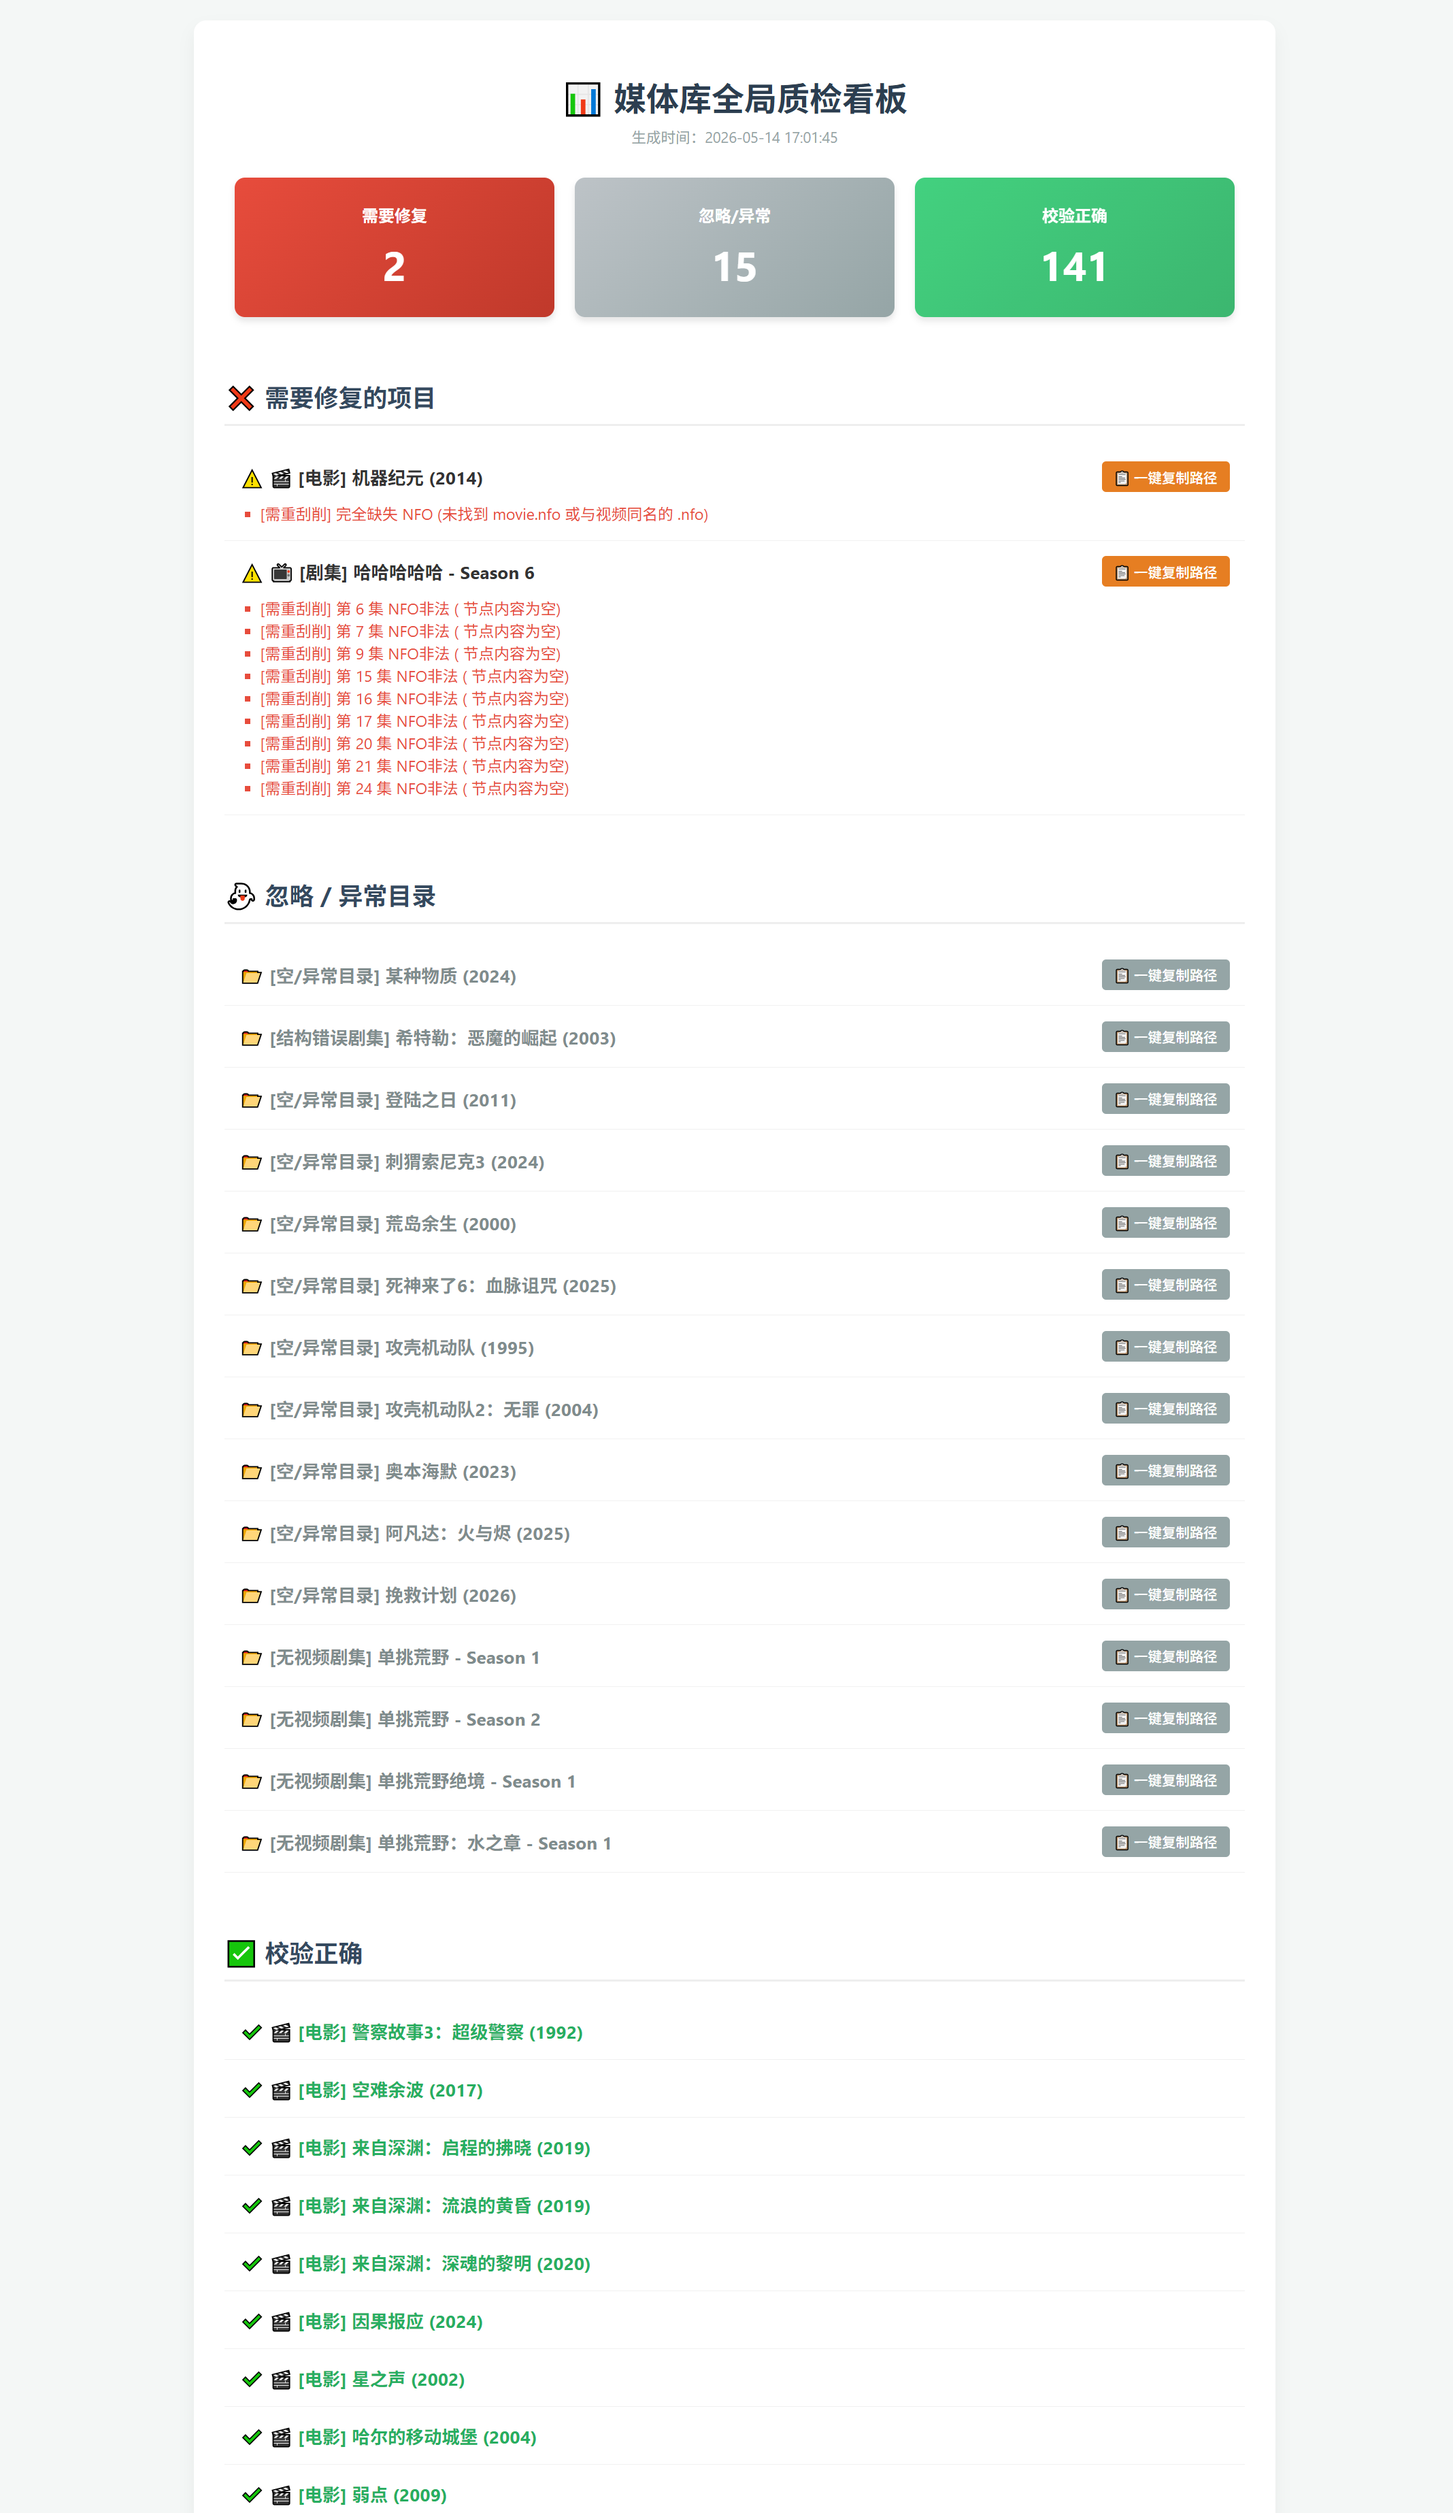
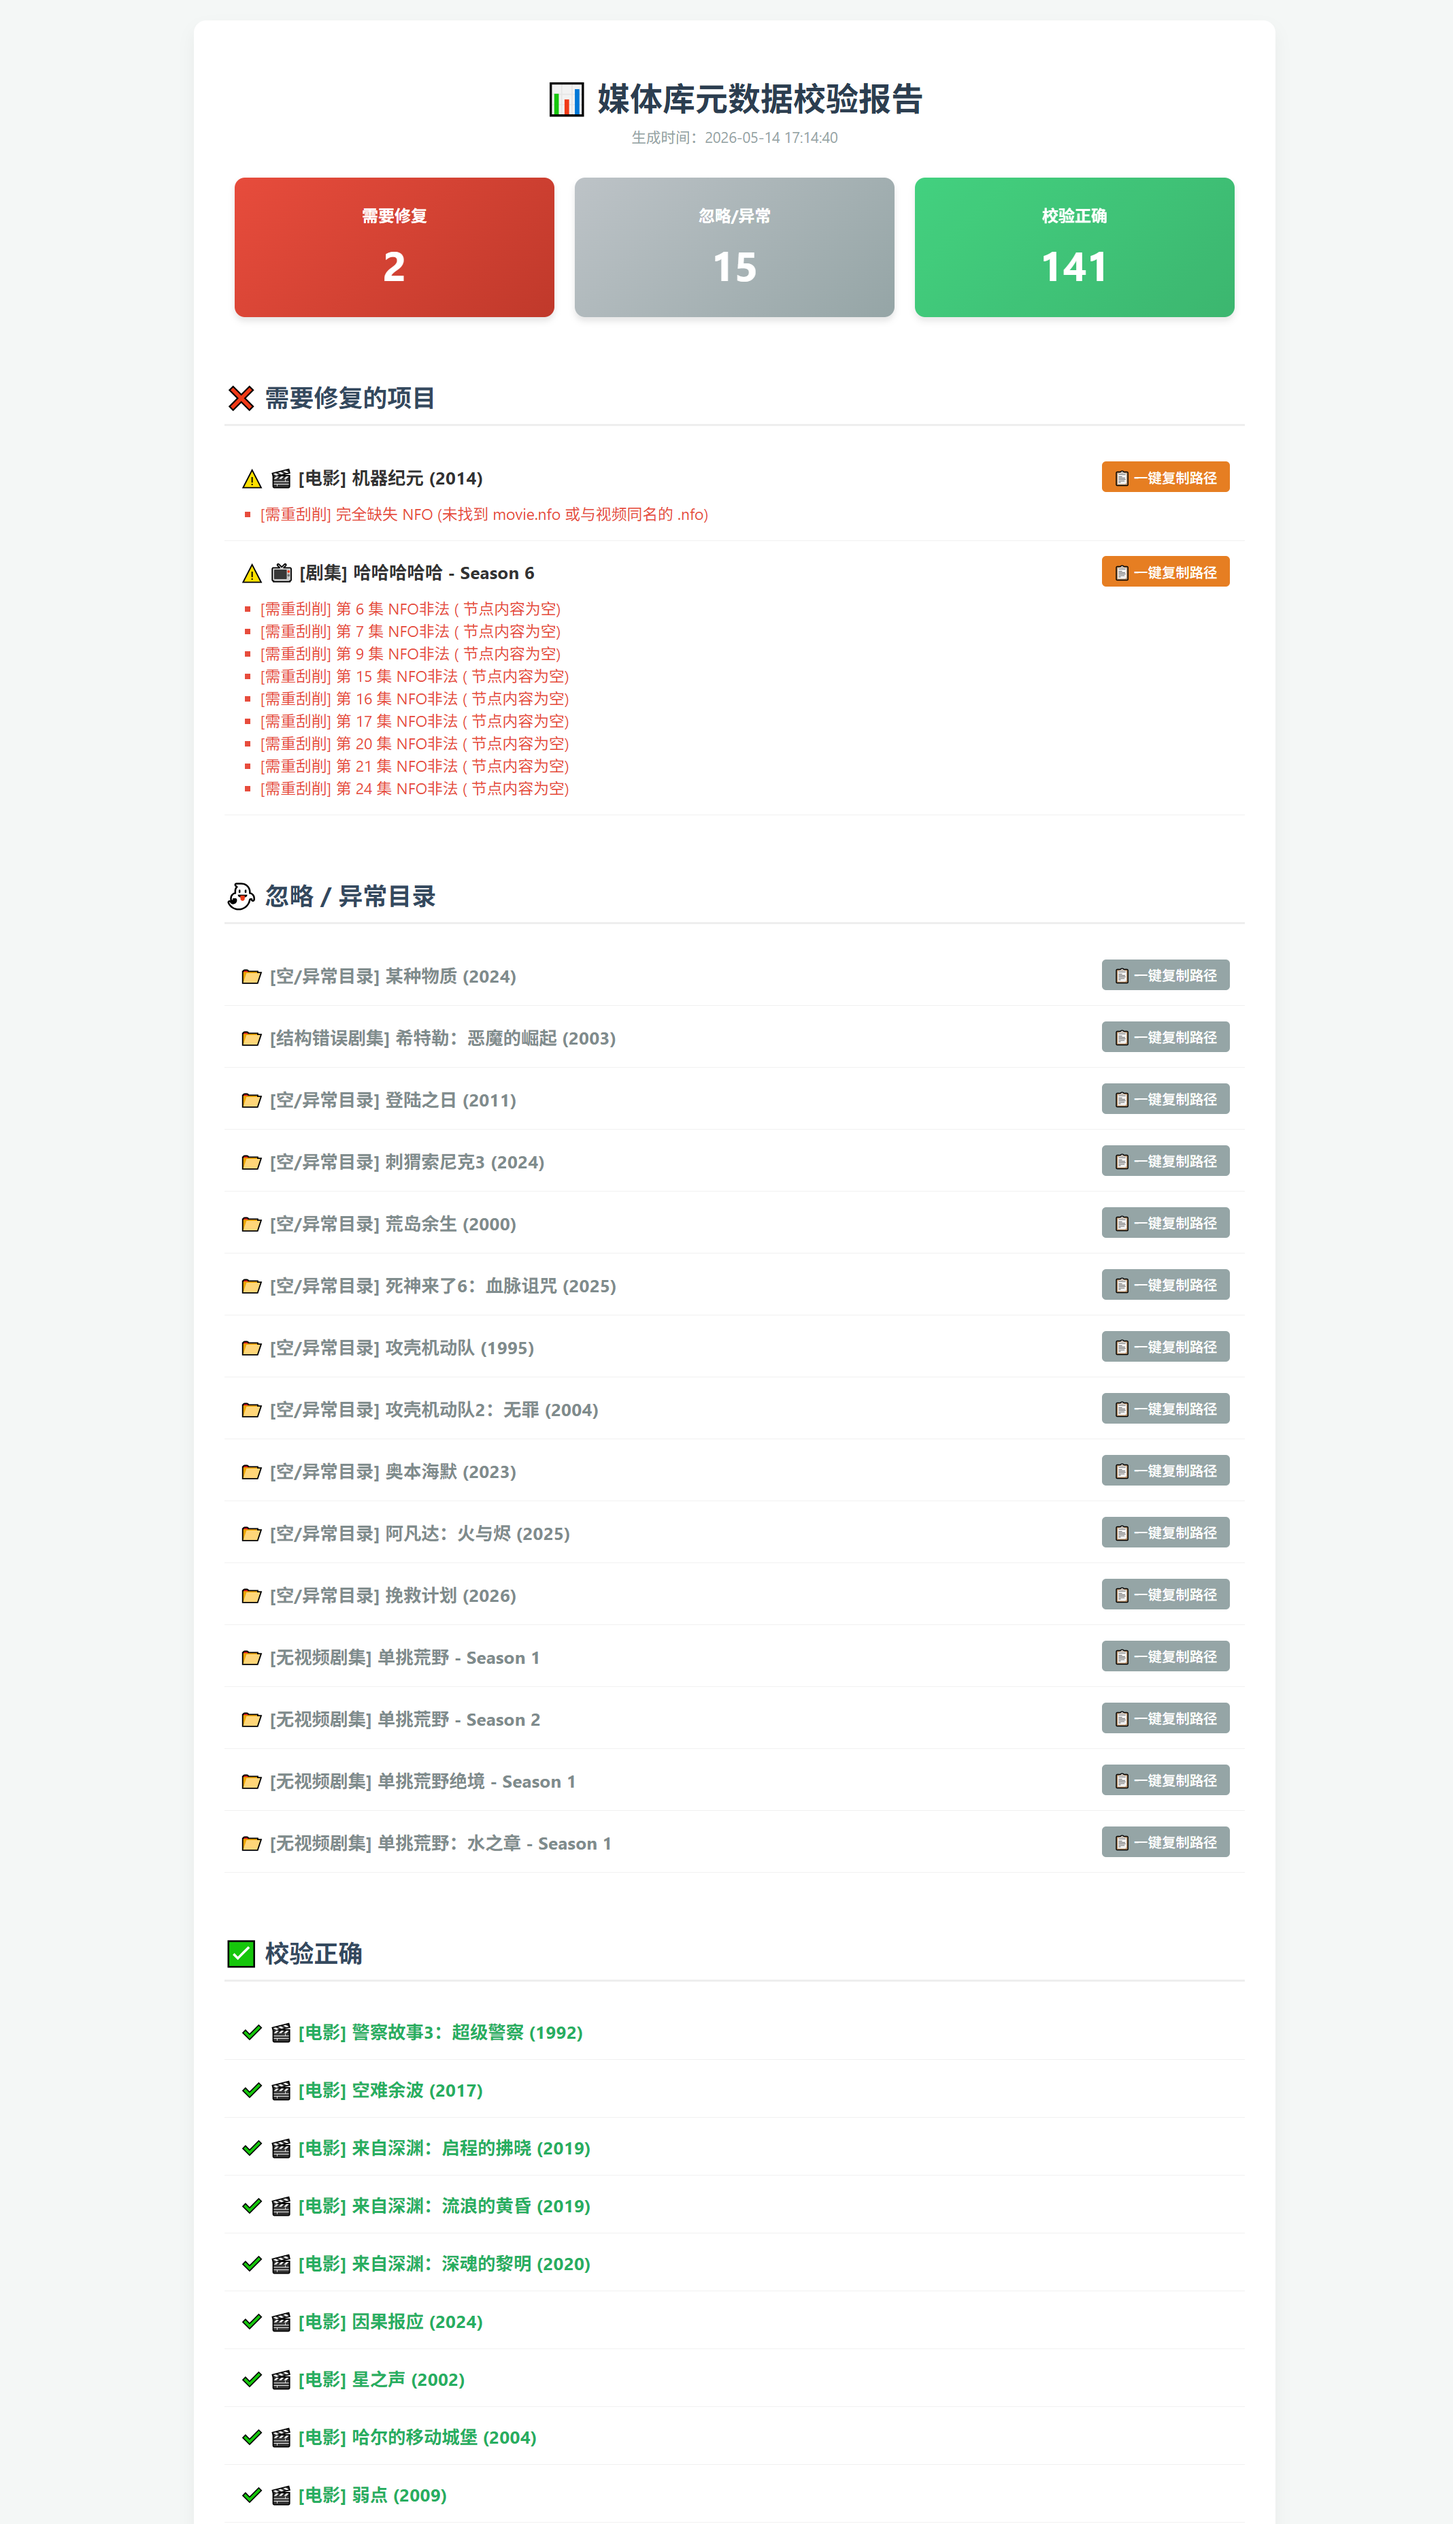
修改部分细节

diff --git a/ui/reporter.py b/ui/reporter.py
@@ -89,7 +89,7 @@ def generate_html_report(summary, file_path):
     </head>
     <body>
         <div class="container">
-            <h1>📊 媒体库全局质检看板</h1>
+            <h1>📊 媒体库元数据校验报告</h1>
             <div class="subtitle">生成时间：{report_time}</div>
 
             <!-- 统计卡片：加入了点击平滑滚动跳转事件 -->
